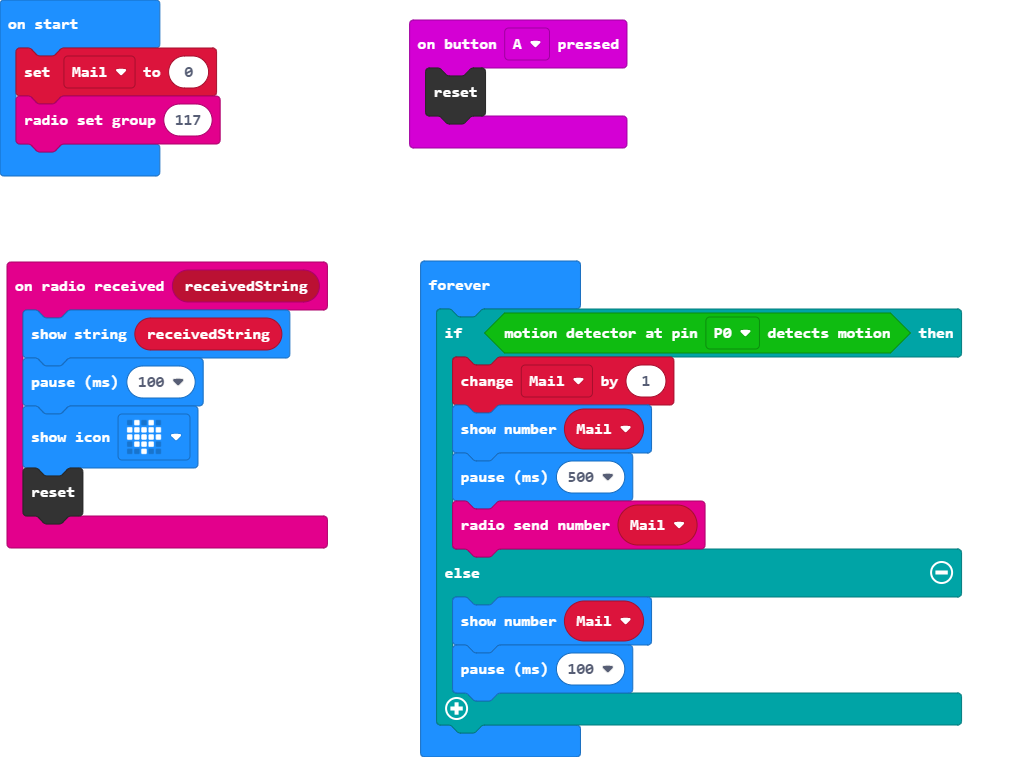
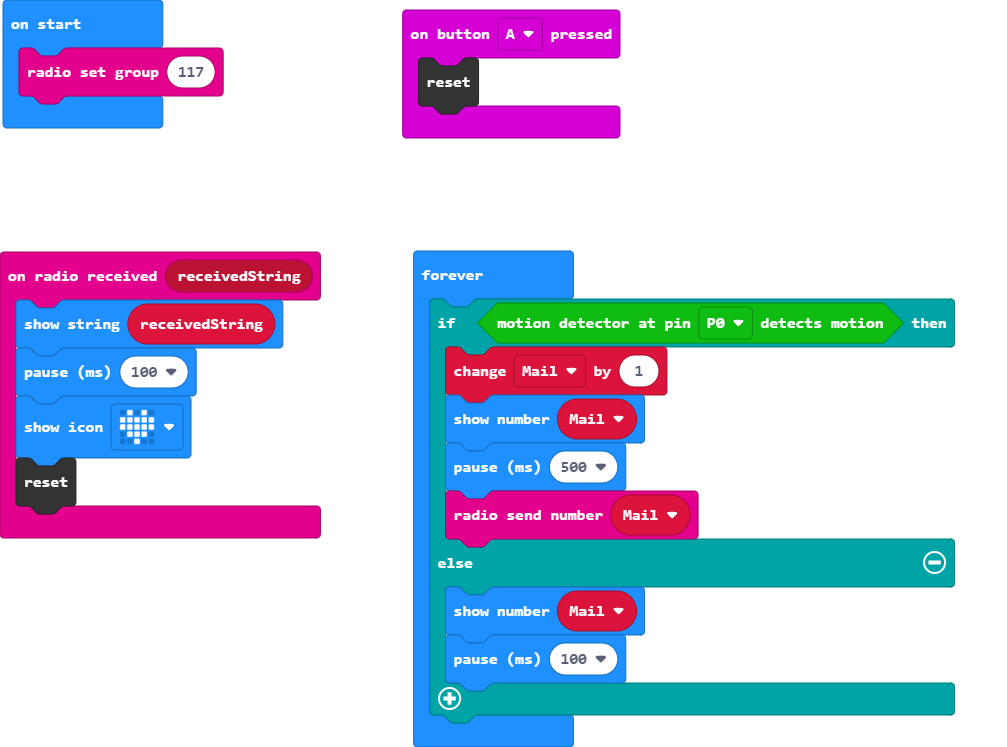
Update pxt.json, main.blocks, main.py

diff --git a/main.py b/main.py
@@ -1,0 +1,25 @@
+def on_button_pressed_a():
+    control.reset()
+input.on_button_pressed(Button.A, on_button_pressed_a)
+
+def on_received_string(receivedString):
+    basic.show_string(receivedString)
+    basic.pause(100)
+    basic.show_icon(IconNames.HEART)
+    control.reset()
+radio.on_received_string(on_received_string)
+
+Mail = 0
+radio.set_group(117)
+
+def on_forever():
+    global Mail
+    if tinkercademy.PIR(DigitalPin.P0):
+        Mail += 1
+        basic.show_number(Mail)
+        basic.pause(500)
+        radio.send_number(Mail)
+    else:
+        basic.show_number(Mail)
+        basic.pause(100)
+basic.forever(on_forever)
